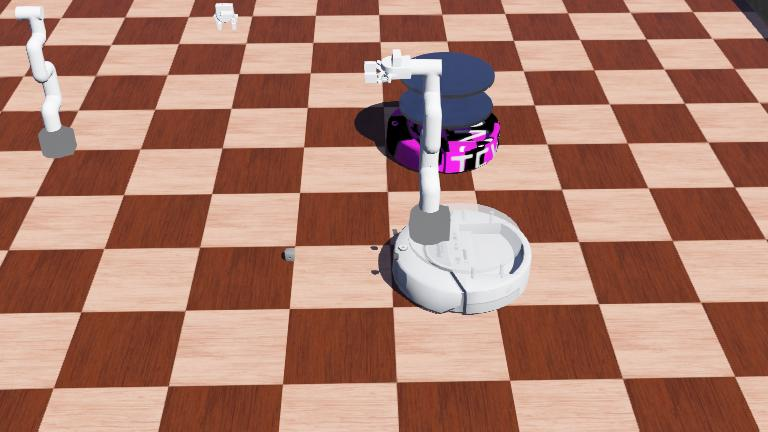
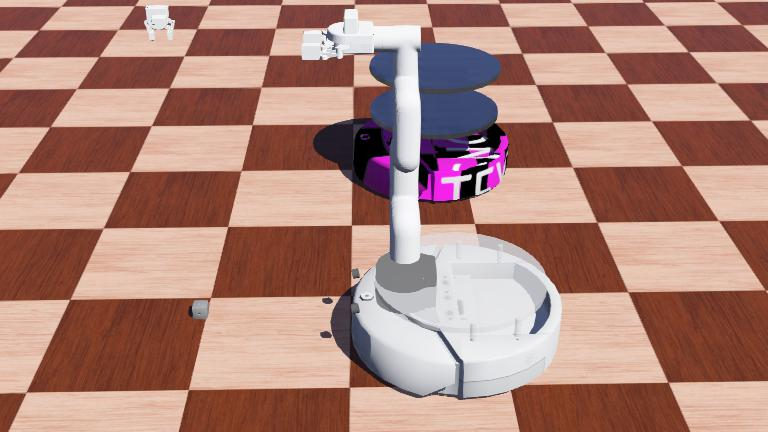
Add camera width and height adjustment to proto

diff --git a/controllers/myCreate_capture_image/myCreate_capture_image.py b/controllers/myCreate_capture_image/myCreate_capture_image.py
@@ -1,0 +1,73 @@
+from controller import Robot
+from controller import Keyboard
+import cv2
+import numpy as np
+import os
+
+
+# Create the robot instance
+myCreate = Robot()
+
+# get the time step of the current world.
+TIMESTEP = int(myCreate.getBasicTimeStep())
+
+keyboard = Keyboard()
+keyboard.enable(TIMESTEP)
+
+# ========== MyCreate ==========
+left_motor = myCreate.getDevice("left wheel motor")
+right_motor = myCreate.getDevice("right wheel motor")
+left_motor.setPosition(float('+inf'));
+right_motor.setPosition(float('+inf'));
+left_motor.setVelocity(0.0)
+right_motor.setVelocity(0.0)
+
+left_position_sensor = myCreate.getDevice("left wheel sensor")
+right_position_sensor = myCreate.getDevice("right wheel sensor")
+left_position_sensor.enable(TIMESTEP)
+right_position_sensor.enable(TIMESTEP)
+
+camera_left = myCreate.getDevice("camera_left")
+camera_right = myCreate.getDevice("camera_right")
+camera_left.enable(TIMESTEP)
+camera_right.enable(TIMESTEP)
+
+
+counter = 0
+x_pressed = False
+
+width = camera_left.getWidth()
+height = camera_left.getHeight()
+if width != 1080 and height != 720:
+    print("Check you camera width and height!")
+    os.exit(1)
+
+# Main loop
+while myCreate.step(TIMESTEP) != -1:
+
+    WHEEL_MAX_SPEED = 6.28
+    FORWARD_RATIO = 1 # 0.75
+    key = keyboard.getKey()
+    if key == ord('W'):
+        left_motor.setVelocity(WHEEL_MAX_SPEED * FORWARD_RATIO)
+        right_motor.setVelocity(WHEEL_MAX_SPEED * FORWARD_RATIO)
+    elif key == ord('S'):
+        left_motor.setVelocity(WHEEL_MAX_SPEED * -FORWARD_RATIO)
+        right_motor.setVelocity(WHEEL_MAX_SPEED * -FORWARD_RATIO)
+    elif key == ord('A'):
+        left_motor.setVelocity(WHEEL_MAX_SPEED * -FORWARD_RATIO)
+        right_motor.setVelocity(WHEEL_MAX_SPEED * FORWARD_RATIO)
+    elif key == ord('D'):
+        left_motor.setVelocity(WHEEL_MAX_SPEED * FORWARD_RATIO)
+        right_motor.setVelocity(WHEEL_MAX_SPEED * -FORWARD_RATIO)
+    elif key == ord('X'):
+        if not x_pressed:
+            x_pressed = True
+            camera_left.saveImage(f"images/cl_{counter:03}.png", None)
+            camera_right.saveImage(f"images/cr_{counter:03}.png", None)
+            print(f"Saved {counter:03}.png")
+            counter += 1
+    else:
+        x_pressed = False
+        left_motor.setVelocity(0.0)
+        right_motor.setVelocity(0.0)
